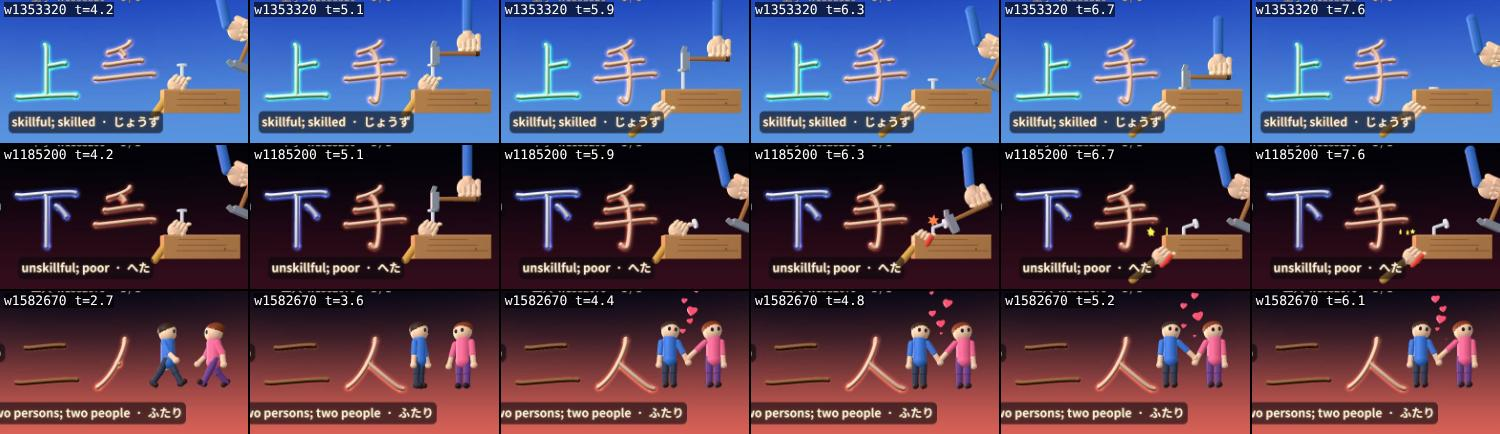
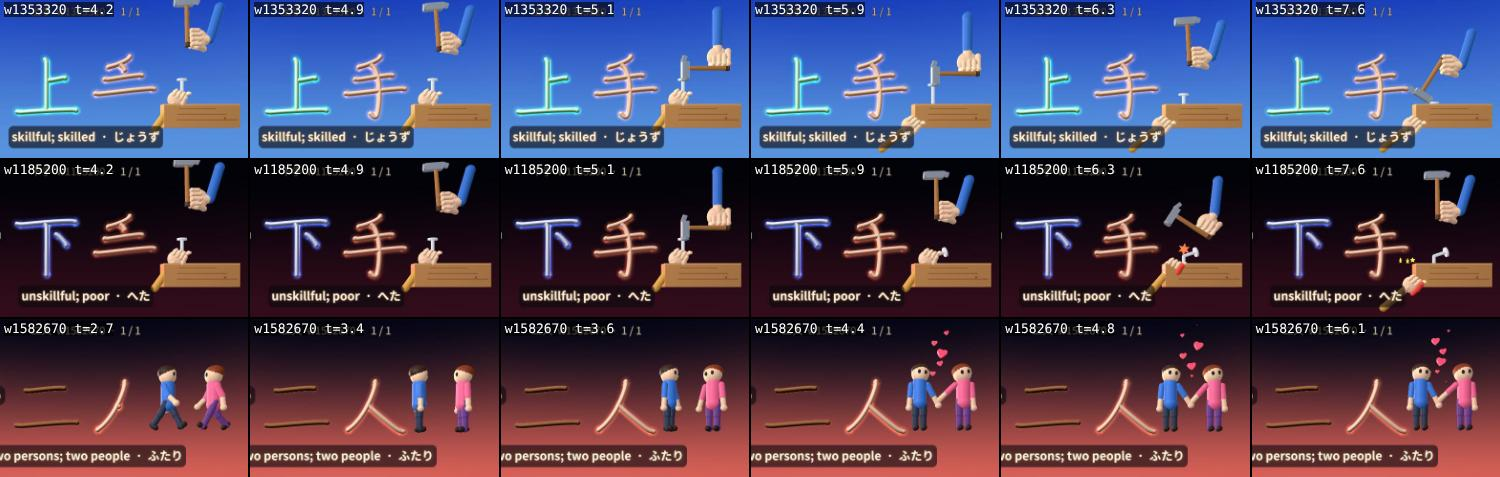
Hammer scene: cock the hammer up and strike down onto the nail
The arm and wrist cocked counter-clockwise, which swings the head (left of
the fist) downward, so every blow came up from below. They now turn
clockwise: the head rises high and the accelerating strike lands on top.

Claude-Session: https://claude.ai/code/session_01NyzHtRFhaUFkFUUBe3fFqV

diff --git a/src/effects/vignettes/craft.js b/src/effects/vignettes/craft.js
@@ -59,8 +59,9 @@ function hammerNail(ctx, spec, stage) {
     const target = bend && v >= 0.7 && v < 2.9 ? thumbAt : head;
     const [ex, ey] = elbowFor(target[0], target[1]);
     hand.group.position.set(ex + 0.04 * u * raise, ey + 0.02 * u * raise + (1 - I.hand) * 0.8 * u, 0);
-    hand.group.rotation.z = Math.PI + 0.22 * raise;
-    hand.bone('palm').rotation.z = 0.95 * raise;                                    // cock the wrist
+    // cocking turns the arm and wrist clockwise: the head (left of the fist) rises high, then the strike brings it down on top
+    hand.group.rotation.z = Math.PI - 0.3 * raise;
+    hand.bone('palm').rotation.z = -1.25 * raise;
     tool.rotation.z = -Math.PI / 2 - (bend ? 0 : Math.PI * 2 * T.twirl);           // clean: a baton twirl to finish
     hand.update();
     // helper hand: holds the nail; lets go after the tap (clean) or jerks away when its thumb is hit (bend); back for the loop
